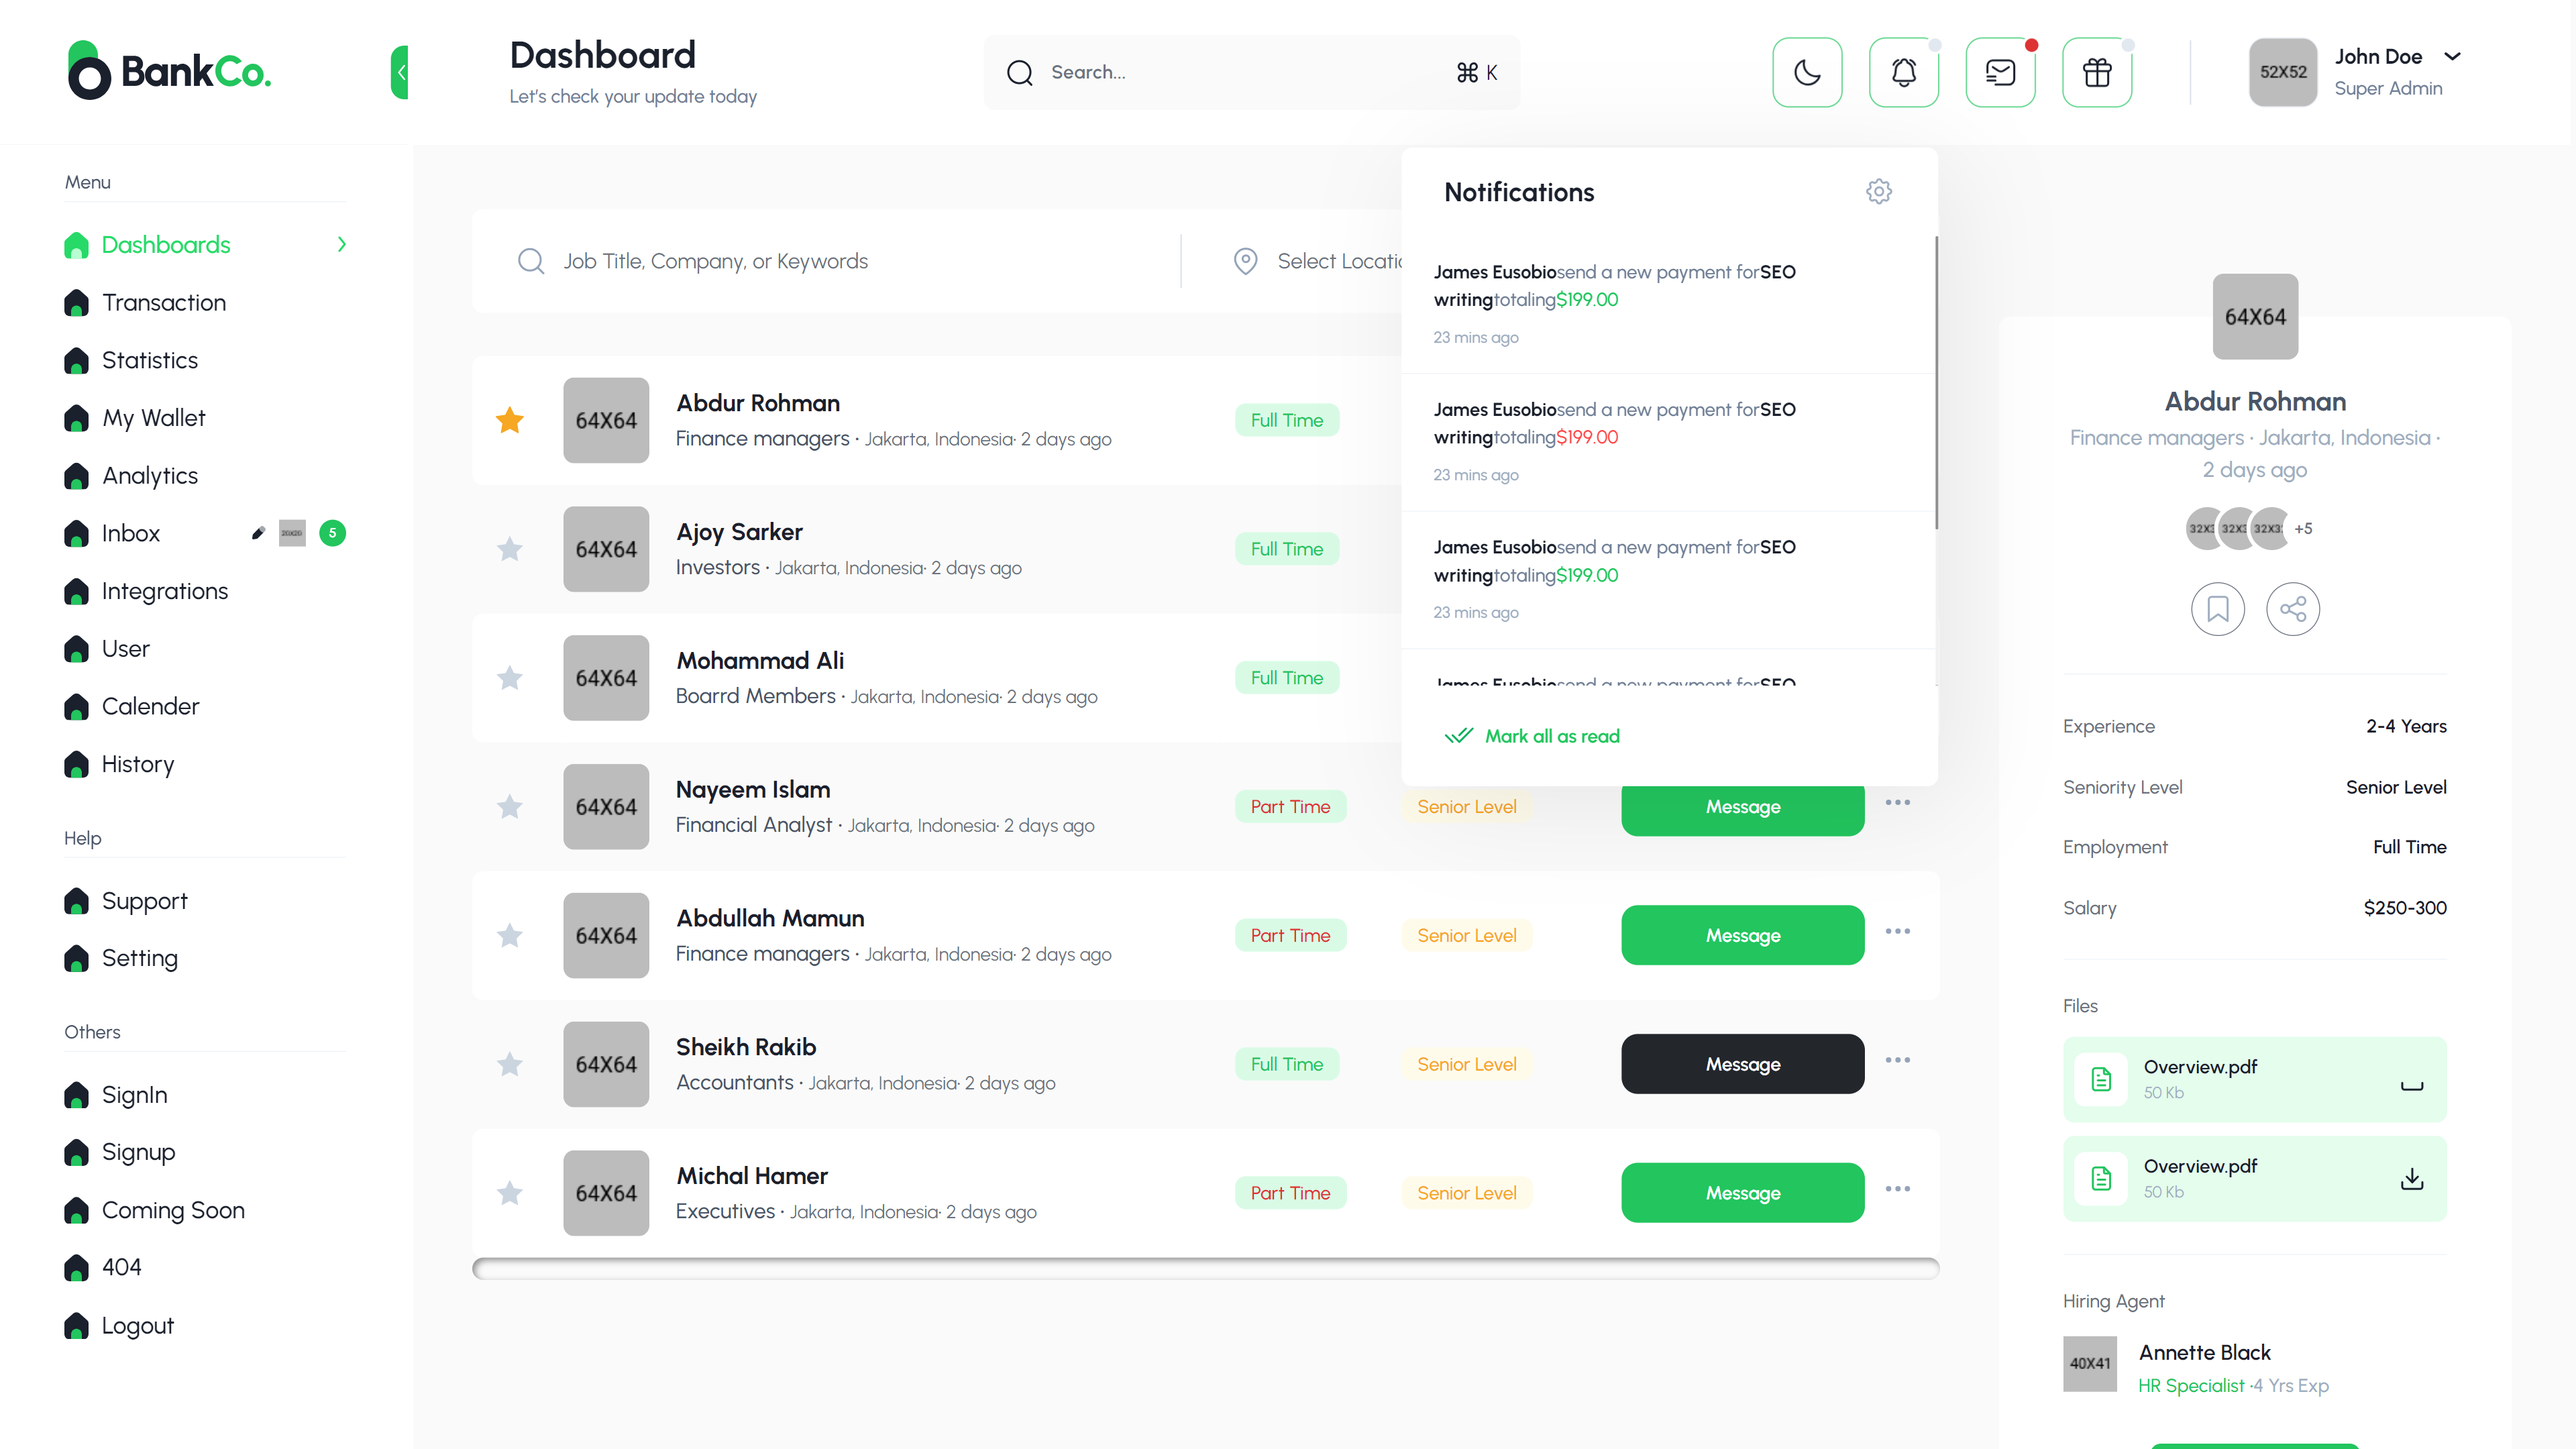
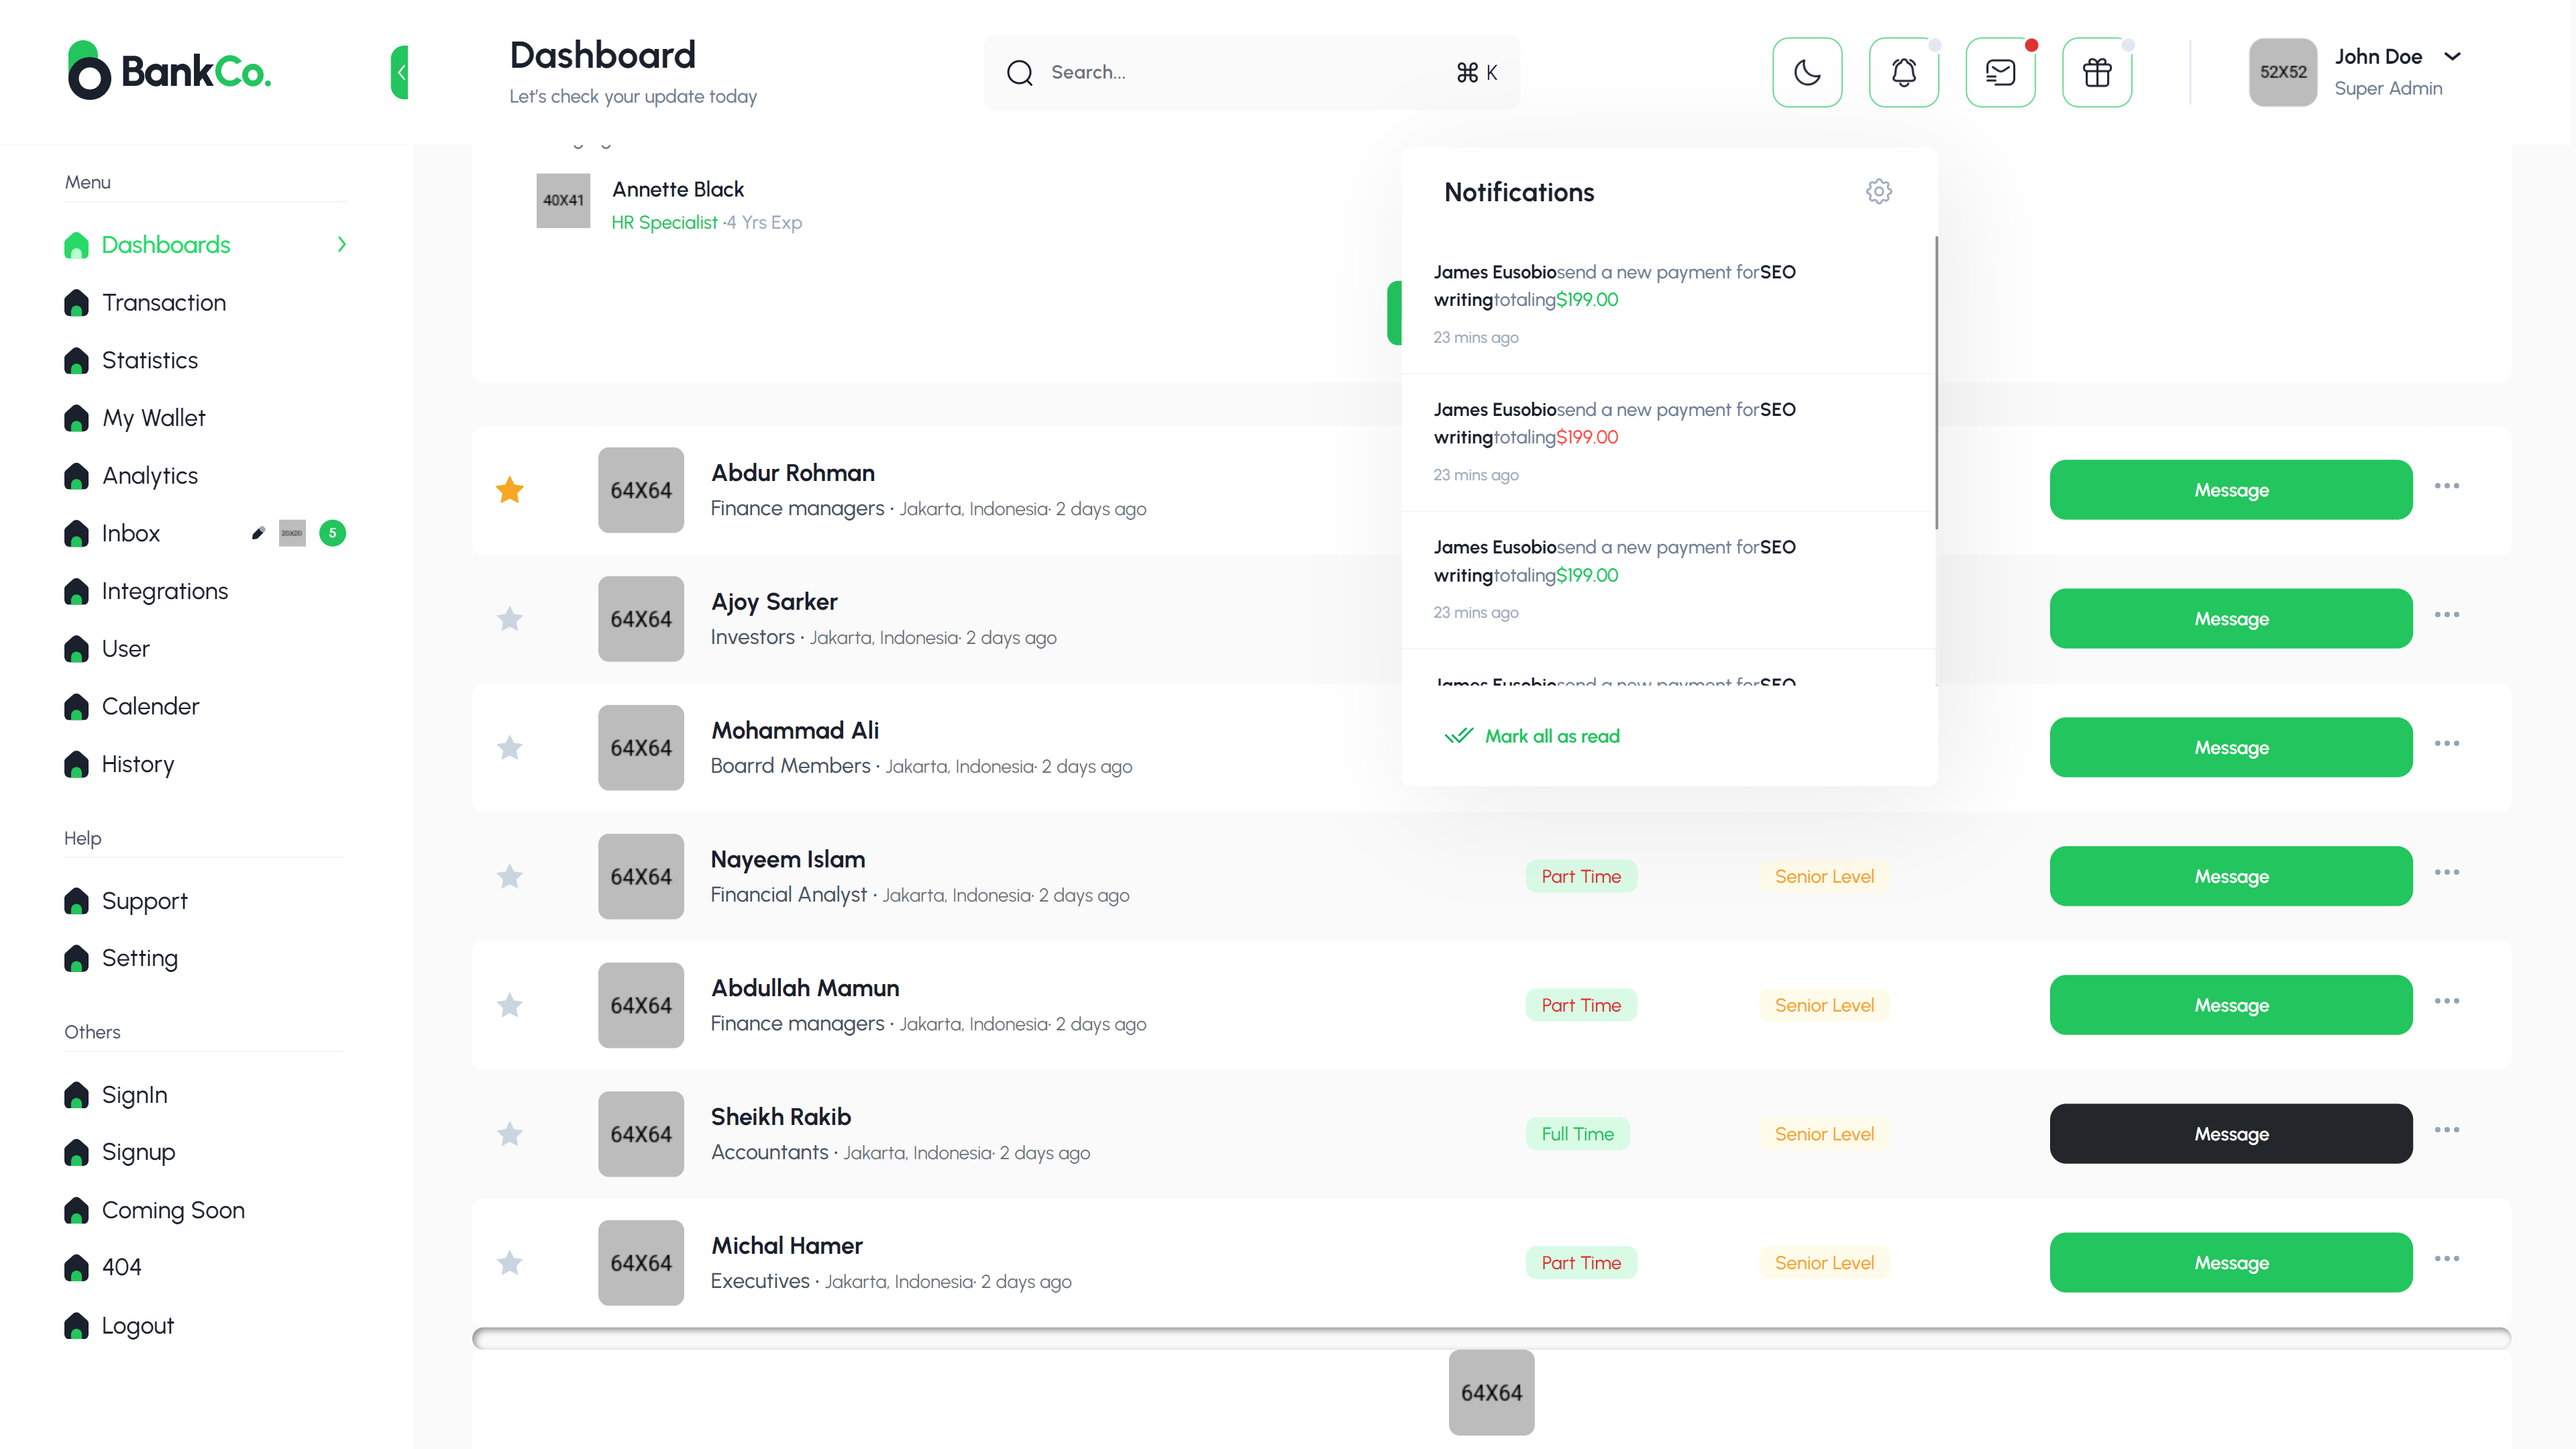
ca_3 user

diff --git a/src/pages/users/index.jsx b/src/pages/users/index.jsx
@@ -7,11 +7,20 @@ function Users() {
     <main className="w-full xl:px-[48px] px-6 pb-6 xl:pb-[48px] sm:pt-[156px] pt-[100px] dark:bg-darkblack-700 ">
       {/* write your code here */}
       <div className="flex 2xl:flex-row 2xl:space-x-11 flex-col space-y-20">
-        <div className="2xl:flex-1 w-full">
-          <UserFilter />
-          <UsersList />
+        <div className="2xl:flex-1  w-full">
+          <div>
+            <UserFilter />
+          </div>
+          <div  className="mt-[3rem]">
+            <RightSidebar />
+          </div>
+          <div  className="mt-[2rem]">
+            <UsersList />
+          </div>
+          <div  className="mt-[2rem]">
+            <RightSidebar />
+          </div>
         </div>
-        <RightSidebar />
       </div>
     </main>
   );

diff --git a/src/component/user/RightSidebar.jsx b/src/component/user/RightSidebar.jsx
@@ -6,7 +6,7 @@ import hr from "../../assets/images/avatar/hr.png";
 
 function RightSidebar() {
   return (
-    <aside className="2xl:w-[382px] w-full bg-white dark:bg-darkblack-600 rounded-lg px-12 pb-7">
+    <aside className=" w-full bg-white dark:bg-darkblack-600 rounded-lg px-12 pb-7">
       <header className="flex flex-col items-center text-center -mt-8 pb-7 header">
         <img src={user} className="rounded-lg" alt="" />
         <h3 className="text-xl font-bold text-bgray-700 dark:text-white mt-4">
